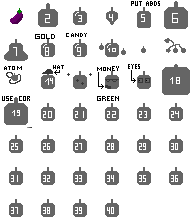
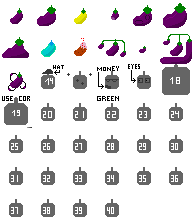
create seed manager

diff --git a/src/Controls/Hud/Hud.jsx b/src/Controls/Hud/Hud.jsx
@@ -14,7 +14,7 @@ import RareSeed from '/assets/Seeds/RareSeed.png'
 import StoreBaseContent from '../Store/StoreBaseContent'
 import {useState} from 'react'
 
-export default function Hud({money}) {
+export default function Hud({money, greenSeed, orangeSeed, blueSeed, pinkSeed, goldSeed, rareSeed}) {
 
 
 	var [isOpen, setIsOpenShop] = useState(false)
@@ -42,27 +42,27 @@ export default function Hud({money}) {
 				<div className='SeedContainer'>
 					<div className='SmallCurrencyPanel CurrencyContainerValue'>
 						<img src={GreenSeed} width={32} height={32} alt="Descrição da imagem" style={{ imageRendering: 'pixelated' }}  />
-						<p className='MoneySecondsPanel'>{money}</p>
+						<p className='MoneySecondsPanel'>{greenSeed}</p>
 					</div>
 					<div className='SmallCurrencyPanel CurrencyContainerValue'>
 						<img src={OrangeSeed} width={32} height={32} alt="Descrição da imagem" style={{ imageRendering: 'pixelated' }}  />
-						<p className='MoneySecondsPanel'>{money}</p>
+						<p className='MoneySecondsPanel'>{orangeSeed}</p>
 					</div>
 					<div className='SmallCurrencyPanel CurrencyContainerValue'>
 						<img src={GoldSeed} width={32} height={32} alt="Descrição da imagem" style={{ imageRendering: 'pixelated' }}  />
-						<p className='MoneySecondsPanel'>{money}</p>
+						<p className='MoneySecondsPanel'>{goldSeed}</p>
 					</div>
 					<div className='SmallCurrencyPanel CurrencyContainerValue'>
 						<img src={BlueSeed} width={32} height={32} alt="Descrição da imagem" style={{ imageRendering: 'pixelated' }}  />
-						<p className='MoneySecondsPanel'>{money}</p>
+						<p className='MoneySecondsPanel'>{blueSeed}</p>
 					</div>
 					<div className='SmallCurrencyPanel CurrencyContainerValue'>
 						<img src={PinkSeed} width={32} height={32} alt="Descrição da imagem" style={{ imageRendering: 'pixelated' }}  />
-						<p className='MoneySecondsPanel'>{money}</p>
+						<p className='MoneySecondsPanel'>{pinkSeed}</p>
 					</div>
 					<div className='SmallCurrencyPanel CurrencyContainerValue'>
 						<img src={RareSeed} width={32} height={32} alt="Descrição da imagem" style={{ imageRendering: 'pixelated' }}  />
-						<p className='MoneySecondsPanel'>{money}</p>
+						<p className='MoneySecondsPanel'>{rareSeed}</p>
 					</div>
 				</div>
 			</div>

diff --git a/src/App.jsx b/src/App.jsx
@@ -1,10 +1,19 @@
 import { useState, useEffect, useRef } from 'react'
 import Hud from './Controls/Hud/Hud'
 import GameManager from "./Script/Managers/GameManager"
+import SeedManager from "./Script/Managers/SeedManager"
 
 function App() {
 
 	var [money, setMoney] = useState(0);
+
+	var [greenSeed, setGreenSeed] = useState(0);
+	var [orangeSeed, setOrangeSeed] = useState(0);
+	var [blueSeed, setBlueSeed] = useState(0);
+	var [pinkSeed, setPinkSeed] = useState(0);
+	var [goldSeed, setGoldSeed] = useState(0);
+	var [rareSeed, setRareSeed] = useState(0);
+
 	const canvasRef = useRef(null);
 	const gameRef = useRef(null);
 
@@ -15,6 +24,12 @@ function App() {
 
 		canvas = c
 		gameManager = new GameManager(canvas, money, setMoney);
+		gameManager.seedManager = new SeedManager(setGreenSeed,
+												  setOrangeSeed,
+												  setBlueSeed,
+												  setPinkSeed,
+												  setGoldSeed,
+												  setRareSeed);
 		gameRef.current = gameManager;
 		gameManager.start();
 
@@ -28,7 +43,19 @@ function App() {
 
   return (
 	<>
-		<Hud money={money}/>
+		<Hud money={money}
+			 greenSeed={greenSeed} 
+			 orangeSeed={orangeSeed}
+			 blueSeed={blueSeed}
+			 pinkSeed={pinkSeed}
+			 goldSeed={goldSeed}
+			 rareSeed={rareSeed}
+			 setGreenSeed={setGreenSeed}
+			 setOrangeSeed={setOrangeSeed}
+			 setBlueSeed={setBlueSeed}
+			 setPinkSeed={setPinkSeed}
+			 setGoldSeed={setGoldSeed}
+			 setRareSeed={setRareSeed}/>
 		<canvas ref={canvasRef} id="game" width={1200} height={600} onClick={onUserClick} />
 	</>
   )

diff --git a/src/Script/Managers/SeedManager.js b/src/Script/Managers/SeedManager.js
@@ -1,0 +1,70 @@
+
+export default class SeedManager
+{
+
+	constructor(
+				setGreenSeed,
+				setOrangeSeed, 
+				setBlueSeed, 
+				setPinkSeed, 
+				setGoldSeed,
+				setRareSeed)
+	{
+		this.greenSeed = 0;
+		this.orangeSeed = 0;
+		this.blueSeed = 0;
+		this.pinkSeed = 0;
+		this.goldSeed = 0;
+		this.rareSeed = 0;
+		
+		this.setUIGreenSeed = setGreenSeed;
+		this.setUIOrangeSeed = setOrangeSeed;
+		this.setUIBlueSeed = setBlueSeed;
+		this.setUIPinkSeed = setPinkSeed;
+		this.setUIGoldSeed = setGoldSeed;
+		this.setUIRareSeed = setRareSeed;
+		
+		this.setUIGreenSeed(1);
+		this.setUIOrangeSeed(3);
+		this.setUIBlueSeed(3);
+		this.setUIPinkSeed(4);
+		this.setUIGoldSeed(5);
+		this.setUIRareSeed(6);
+	}
+
+	SetGreenSeed(value)
+	{
+		this.greenSeed = value
+		this.setUIGreenSeed(this.greenSeed);
+	}
+
+	SetOrangeSeed(value)
+	{
+		this.orangeSeed = value
+		this.setUIOrangeSeed(this.orangeSeed);
+	}
+
+	SetBlueSeed(value)
+	{
+		this.blueSeed = value
+		this.setUIBlueSeed(this.blueSeed);
+	}
+
+	SetPinkSeed(value)
+	{
+		this.pinkSeed = value
+		this.setUIPinkSeed(this.pinkSeed);
+	}
+
+	SetGoldSeed(value)
+	{
+		this.goldSeed = value
+		this.setUIGoldSeed(this.goldSeed);
+	}
+
+	SetRareSeed(value)
+	{
+		this.rareSeed = value
+		this.setUIRareSeed(this.rareSeed);
+	}
+}

diff --git a/src/Script/Managers/GameManager.js b/src/Script/Managers/GameManager.js
@@ -15,6 +15,7 @@ export default class GameManager
 
 	skyManager;
 	fruitManager;
+	seedManager;
 
 	money;
 	setMoney;
